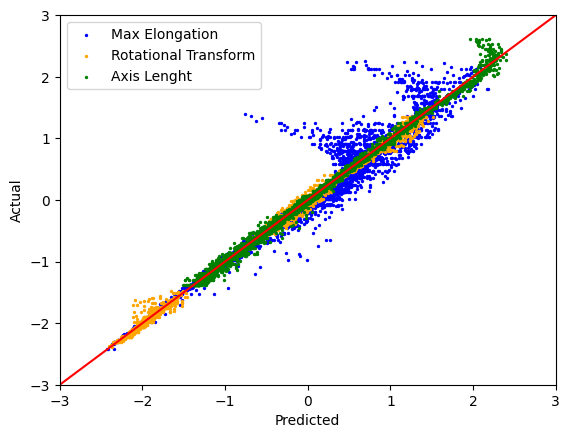
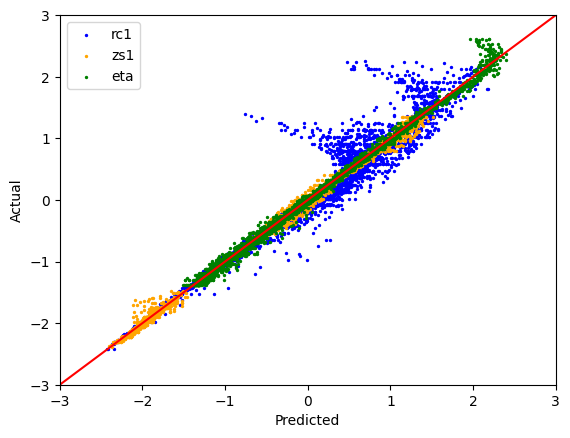
fix: wrong labels predicted actual plots

Changed region(s): [[0.1789, 0.1187, 0.4474, 0.2078], [0.1789, 0.0594, 0.3877, 0.089]]

diff --git a/OtherModels/createRegressor.py b/OtherModels/createRegressor.py
@@ -73,9 +73,9 @@ print("mse: ", mean_squared_error(y_validation_scaled, validation_predictions))
 #print(df.sort_values("R2_validation"))
 fig, ax = plt.subplots()
 
-ax.scatter(test_predictions[:,2],y_test_scaled[:,2], c="blue", label="Max Elongation",s=2)
-ax.scatter(test_predictions[:,0],y_test_scaled[:,0], c="orange", label="Rotational Transform", s=2)
-ax.scatter(test_predictions[:,1],y_test_scaled[:,1], c="green", label="Axis Lenght", s=2)
+ax.scatter(test_predictions[:,2],y_test_scaled[:,2], c="blue", label="rc1",s=2)
+ax.scatter(test_predictions[:,0],y_test_scaled[:,0], c="orange", label="zs1", s=2)
+ax.scatter(test_predictions[:,1],y_test_scaled[:,1], c="green", label="eta", s=2)
 
 plt.axline([0, 0], [1, 1], color='red')
 plt.ylim(-3, 3)
